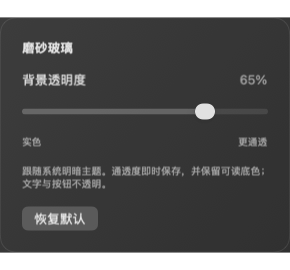
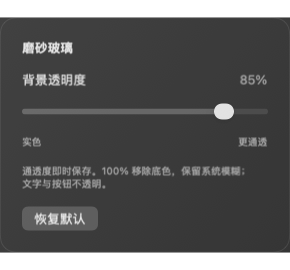
feat(appearance): add theme selection and 100 percent transparency

Changed region(s): [[0.0621, 0.5926, 0.931, 0.6519], [0.6517, 0.3852, 0.8069, 0.4444]]

diff --git a/Sources/CodexContextBar/GlassAppearance.swift b/Sources/CodexContextBar/GlassAppearance.swift
@@ -1,9 +1,29 @@
 import AppKit
 import SwiftUI
 
+enum AppTheme: String, CaseIterable {
+    case system, light, dark
+
+    var title: String {
+        switch self {
+        case .system: "跟随系统"
+        case .light: "浅色"
+        case .dark: "深色"
+        }
+    }
+
+    var colorScheme: ColorScheme? {
+        switch self {
+        case .system: nil
+        case .light: .light
+        case .dark: .dark
+        }
+    }
+}
+
 /// Native window blur stays opaque to interaction; the slider adjusts its tinted backing.
 struct GlassBackground: View {
-    @AppStorage("glassTransparency") private var transparency = 0.65
+    @AppStorage("glassTransparency") private var transparency = 0.85
     @Environment(\.colorScheme) private var colorScheme
     @Environment(\.accessibilityReduceTransparency) private var reduceTransparency
 
@@ -14,7 +34,7 @@ struct GlassBackground: View {
             } else {
                 FrostedWindowMaterial(scheme: colorScheme)
                 Color(nsColor: .windowBackgroundColor)
-                    .opacity(1 - min(max(transparency, 0), 0.85))
+                    .opacity(1 - min(max(transparency, 0), 1))
                 LinearGradient(colors: [.white.opacity(colorScheme == .dark ? 0.06 : 0.22), .clear],
                     startPoint: .topLeading, endPoint: .bottomTrailing)
             }
@@ -72,7 +92,7 @@ struct GlassAppearanceControl: View {
 }
 
 struct GlassAppearancePanel: View {
-    @AppStorage("glassTransparency") private var transparency = 0.65
+    @AppStorage("glassTransparency") private var transparency = 0.85
     @Environment(\.accessibilityReduceTransparency) private var reduceTransparency
     @Environment(\.appLanguage) private var language
 
@@ -85,7 +105,7 @@ struct GlassAppearancePanel: View {
                 Text("\(Int((transparency * 100).rounded()))%")
                     .monospacedDigit().foregroundStyle(InspectorTheme.secondary)
             }
-            Slider(value: $transparency, in: 0...0.85)
+            Slider(value: $transparency, in: 0...1)
                 .accessibilityLabel(language.text("背景透明度"))
                 .accessibilityValue("\(Int((transparency * 100).rounded()))%")
                 .disabled(reduceTransparency)
@@ -94,10 +114,10 @@ struct GlassAppearancePanel: View {
                 Spacer()
                 Text(language.text("更通透"))
             }.font(.caption).foregroundStyle(InspectorTheme.secondary)
-            Text(language.text(reduceTransparency ? "系统已开启“减少透明度”，当前使用实色背景。" : "跟随系统明暗主题。通透度即时保存，并保留可读底色；文字与按钮不透明。"))
+            Text(language.text(reduceTransparency ? "系统已开启“减少透明度”，当前使用实色背景。" : "通透度即时保存。100% 移除底色，保留系统模糊；文字与按钮不透明。"))
                 .font(.caption).foregroundStyle(InspectorTheme.secondary)
                 .fixedSize(horizontal: false, vertical: true)
-            Button(language.text("恢复默认")) { transparency = 0.65 }
+            Button(language.text("恢复默认")) { transparency = 0.85 }
         }
         .padding(22).frame(width: 290)
         .foregroundStyle(InspectorTheme.text)

diff --git a/Tests/InspectorTests/InspectorTests.swift b/Tests/InspectorTests/InspectorTests.swift
@@ -203,7 +203,7 @@ private func makeHeader(project: URL, file: URL, kinds: [(String, Int)]? = nil) 
     try snapshot(Dashboard(model: fixture.model), size: CGSize(width: 880, height: 640), to: destination.appendingPathComponent("inspector-compact.png"))
     fixture.model.language = .english
     try snapshot(Dashboard(model: fixture.model).environment(\.locale, fixture.model.language.locale), size: CGSize(width: 880, height: 640), to: destination.appendingPathComponent("inspector-compact-en.png"), scheme: .light)
-    try snapshot(WorkbenchSettings(model: fixture.model), size: CGSize(width: 340, height: 310), to: destination.appendingPathComponent("shared-settings.png"), scheme: .light)
+    try snapshot(WorkbenchSettings(model: fixture.model), size: CGSize(width: 340, height: 360), to: destination.appendingPathComponent("shared-settings.png"), scheme: .light)
     fixture.model.language = .chinese
     fixture.model.selectedKind = "plugins.recommendations"
     try snapshot(Dashboard(model: fixture.model), size: CGSize(width: 1048, height: 786), to: destination.appendingPathComponent("recommendations.png"))
@@ -379,4 +379,10 @@ private func snapshot<V: View>(_ view: V, size: CGSize, to url: URL, scheme: Col
     defer { pending.cleanup() }
     pending.model.isDesignPreview = true; pending.model.showingSavings = true
     try snapshot(Dashboard(model: pending.model), size: CGSize(width: 1048, height: 786), to: destination.appendingPathComponent("workbench-pending.png"), scheme: .light)
+}
+
+@Test func appearanceThemeResolvesExplicitAndSystemModes() {
+    #expect(AppTheme.system.colorScheme == nil)
+    #expect(AppTheme.light.colorScheme == .light)
+    #expect(AppTheme.dark.colorScheme == .dark)
 }

diff --git a/Sources/CodexContextBar/CodexContextBarApp.swift b/Sources/CodexContextBar/CodexContextBarApp.swift
@@ -5,6 +5,7 @@ import SwiftUI
 @main
 struct CodexContextBarApp: App {
     @State private var model = AppModel()
+    @AppStorage("appTheme") private var theme = AppTheme.system
     private static let menuBarIcon: NSImage = {
         let image = NSImage(contentsOf: Bundle.module.url(forResource: "MenuBarIcon", withExtension: "pdf")!)!
         image.size = NSSize(width: 18, height: 18)
@@ -15,6 +16,7 @@ struct CodexContextBarApp: App {
     var body: some Scene {
         MenuBarExtra {
             MenuContent(model: model).environment(\.locale, model.language.locale).environment(\.appLanguage, model.language)
+                .preferredColorScheme(theme.colorScheme)
         } label: {
             Image(nsImage: Self.menuBarIcon)
                 .accessibilityLabel("Context Bar")
@@ -23,6 +25,7 @@ struct CodexContextBarApp: App {
 
         Window("Context Bar", id: "dashboard") {
             Dashboard(model: model).environment(\.locale, model.language.locale).environment(\.appLanguage, model.language)
+                .preferredColorScheme(theme.colorScheme)
         }
         .defaultSize(width: 1048, height: 786)
         .windowResizability(.contentMinSize)

diff --git a/Sources/CodexContextBar/InspectorToolbar.swift b/Sources/CodexContextBar/InspectorToolbar.swift
@@ -23,6 +23,7 @@ struct ProjectMenu: View {
 }
 
 struct WorkbenchSettings: View {
+    @AppStorage("appTheme") private var theme = AppTheme.system
     @Bindable var model: AppModel
     @Environment(\.dismiss) private var dismiss
     var body: some View {
@@ -31,6 +32,11 @@ struct WorkbenchSettings: View {
             Picker(model.language.text("语言"), selection: $model.language) {
                 Text("简体中文").tag(AppLanguage.chinese)
                 Text("English").tag(AppLanguage.english)
+            }
+            Picker(model.language.text("主题"), selection: $theme) {
+                ForEach(AppTheme.allCases, id: \.self) { theme in
+                    Text(model.language.text(theme.title)).tag(theme)
+                }
             }
             HStack {
                 Text(model.language.text("外观与透明度"))
